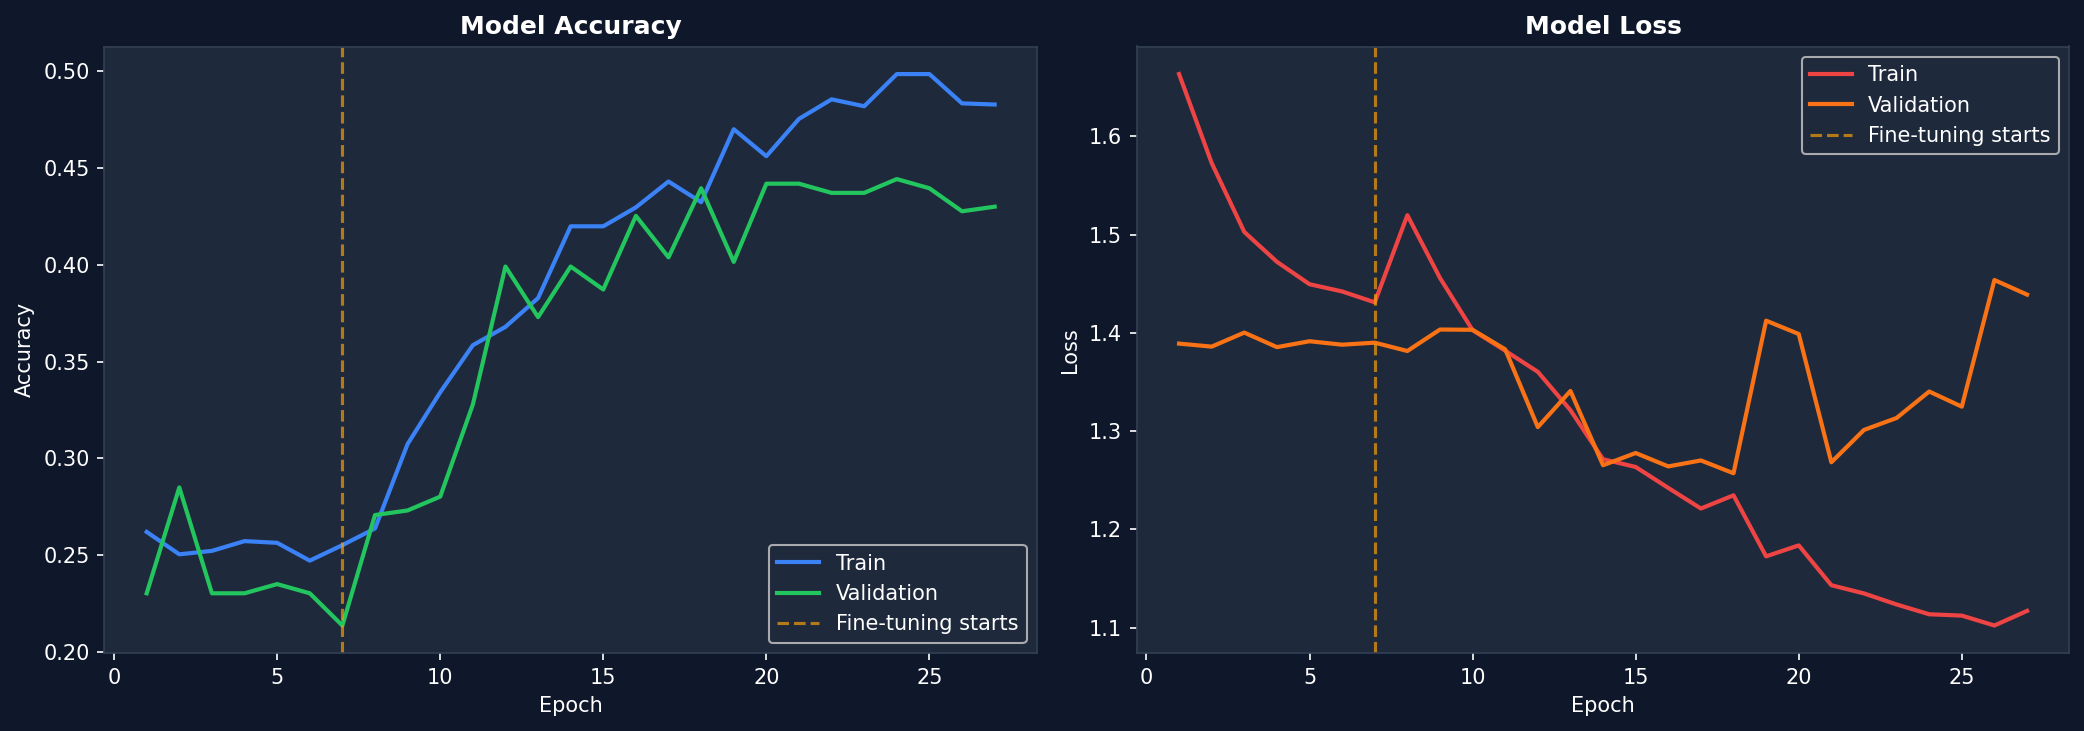
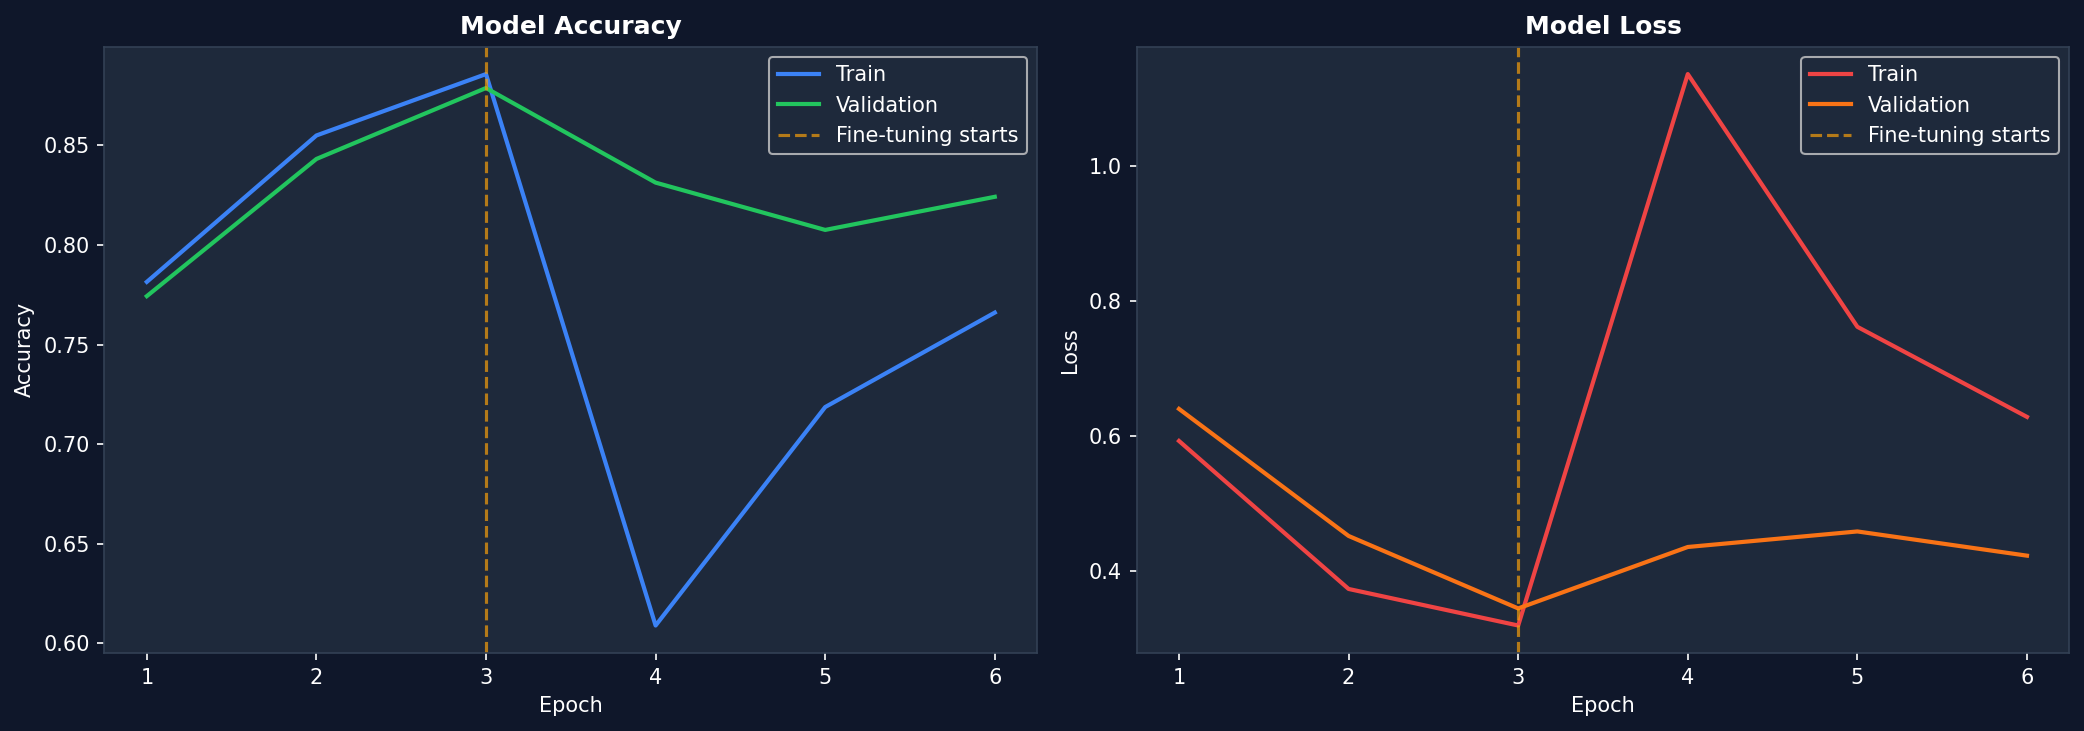
Improved model accuracy to 83%

diff --git a/utils/preprocessing.py b/utils/preprocessing.py
@@ -1,6 +1,7 @@
 import os
 import numpy as np
 import tensorflow as tf
+from tensorflow.keras.applications.efficientnet import preprocess_input
 from tensorflow.keras.preprocessing.image import ImageDataGenerator
 from config import TRAIN_DIR, TEST_DIR, IMAGE_SIZE, BATCH_SIZE, RANDOM_SEED
 
@@ -114,8 +115,7 @@ def get_data_generators():
                 img = cv2.cvtColor(img, cv2.COLOR_BGR2RGB)
                 img = cv2.resize(img, IMAGE_SIZE)
 
-                img = img.astype(np.float32) / 255.0
-
+                img = preprocess_input(img.astype(np.float32))  
                 label_vec = np.zeros(num_classes, dtype=np.float32)
                 label_vec[class_indices[self.labels[i]]] = 1.0
 
@@ -169,8 +169,7 @@ def preprocess_pil_image(pil_img):
 
     img = cv2.resize(img, IMAGE_SIZE)
 
-    img = img.astype(np.float32) / 255.0
-
+    img = preprocess_input(img.astype(np.float32))
     img = np.expand_dims(img, axis=0)
 
     return img

diff --git a/config.py b/config.py
@@ -56,8 +56,8 @@ INPUT_SHAPE     = (224, 224, 3)
 
 # ─── Training Hyperparameters ─────────────────────────────────────────────────
 BATCH_SIZE      = 32
-EPOCHS_FROZEN   = 10     # Phase 1: train head only (frozen base)
-EPOCHS_FINETUNE = 20     # Phase 2: fine-tune top layers
+EPOCHS_FROZEN   = 3     # Phase 1: train head only (frozen base)
+EPOCHS_FINETUNE = 3   # Phase 2: fine-tune top layers
 LEARNING_RATE   = 1e-3
 FINETUNE_LR     = 1e-5
 VALIDATION_SPLIT = 0.2

diff --git a/train.py b/train.py
@@ -65,7 +65,7 @@ def build_model(num_classes: int = 4, trainable_base: bool = False) -> Model:
 
     # EfficientNetB0 expects uint8 or [0,255] input — we've already normalized
     # so set include_preprocessing=False behaviour via direct call
-    x = base_model(inputs, training=False)
+    x = base_model(inputs)
 
     # Classification head
     x = layers.GlobalAveragePooling2D(name="gap")(x)

diff --git a/README.md b/README.md
@@ -248,3 +248,11 @@ This system is for **educational and research purposes only**. It is NOT intende
 3. Acharya, U. R., et al. (2018). Automated diabetic macular edema detection using deep learning. IEEE.
 4. APTOS 2019 Blindness Detection — Kaggle Competition.
 5. Zuiderveld, K. (1994). Contrast Limited Adaptive Histogram Equalization. Graphics Gems IV.
+
+## 👩💻 Author
+
+Geeta Ajit Nemgounder
+
+BE in Artificial Intelligence & Machine Learning
+
+GitHub: https://github.com/Geeta3521